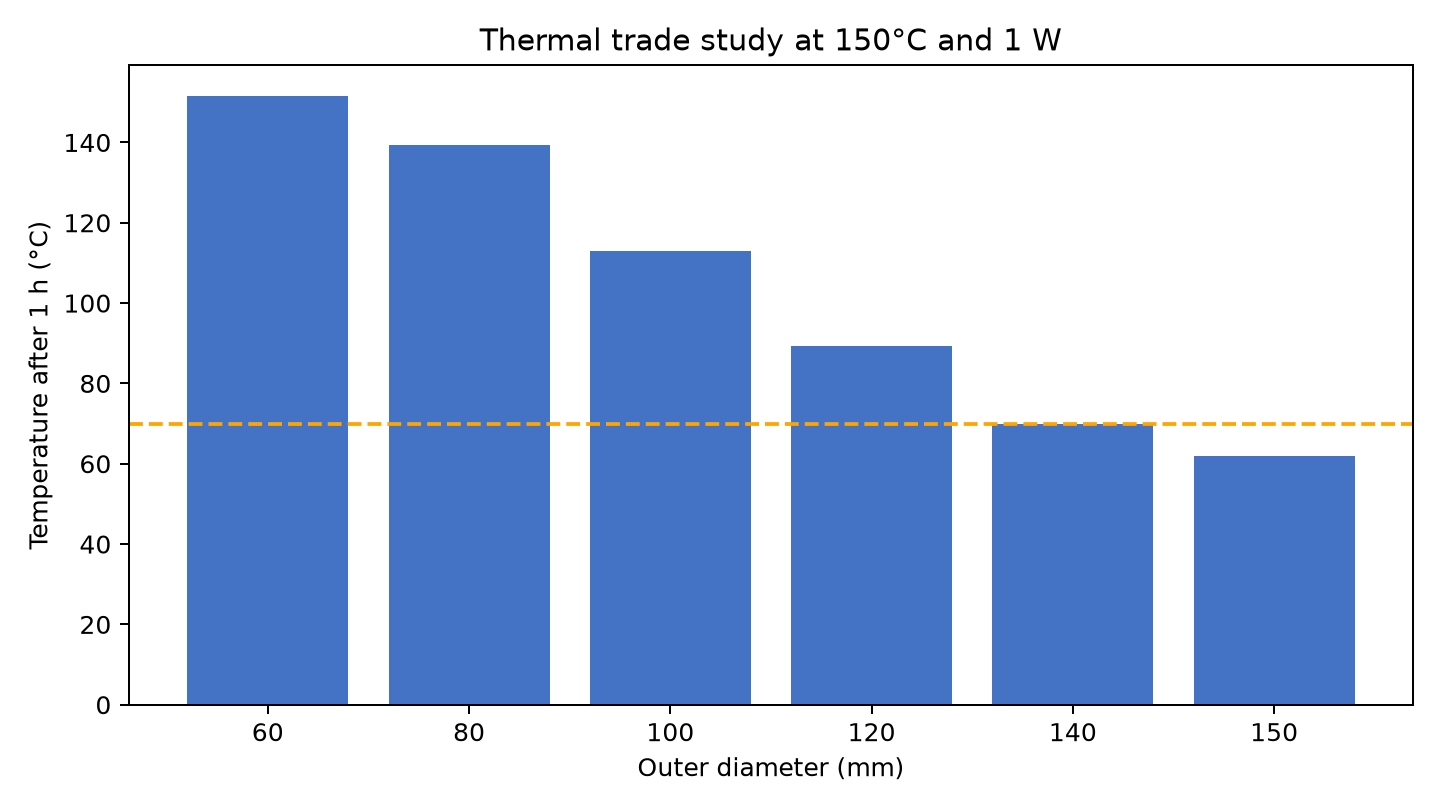
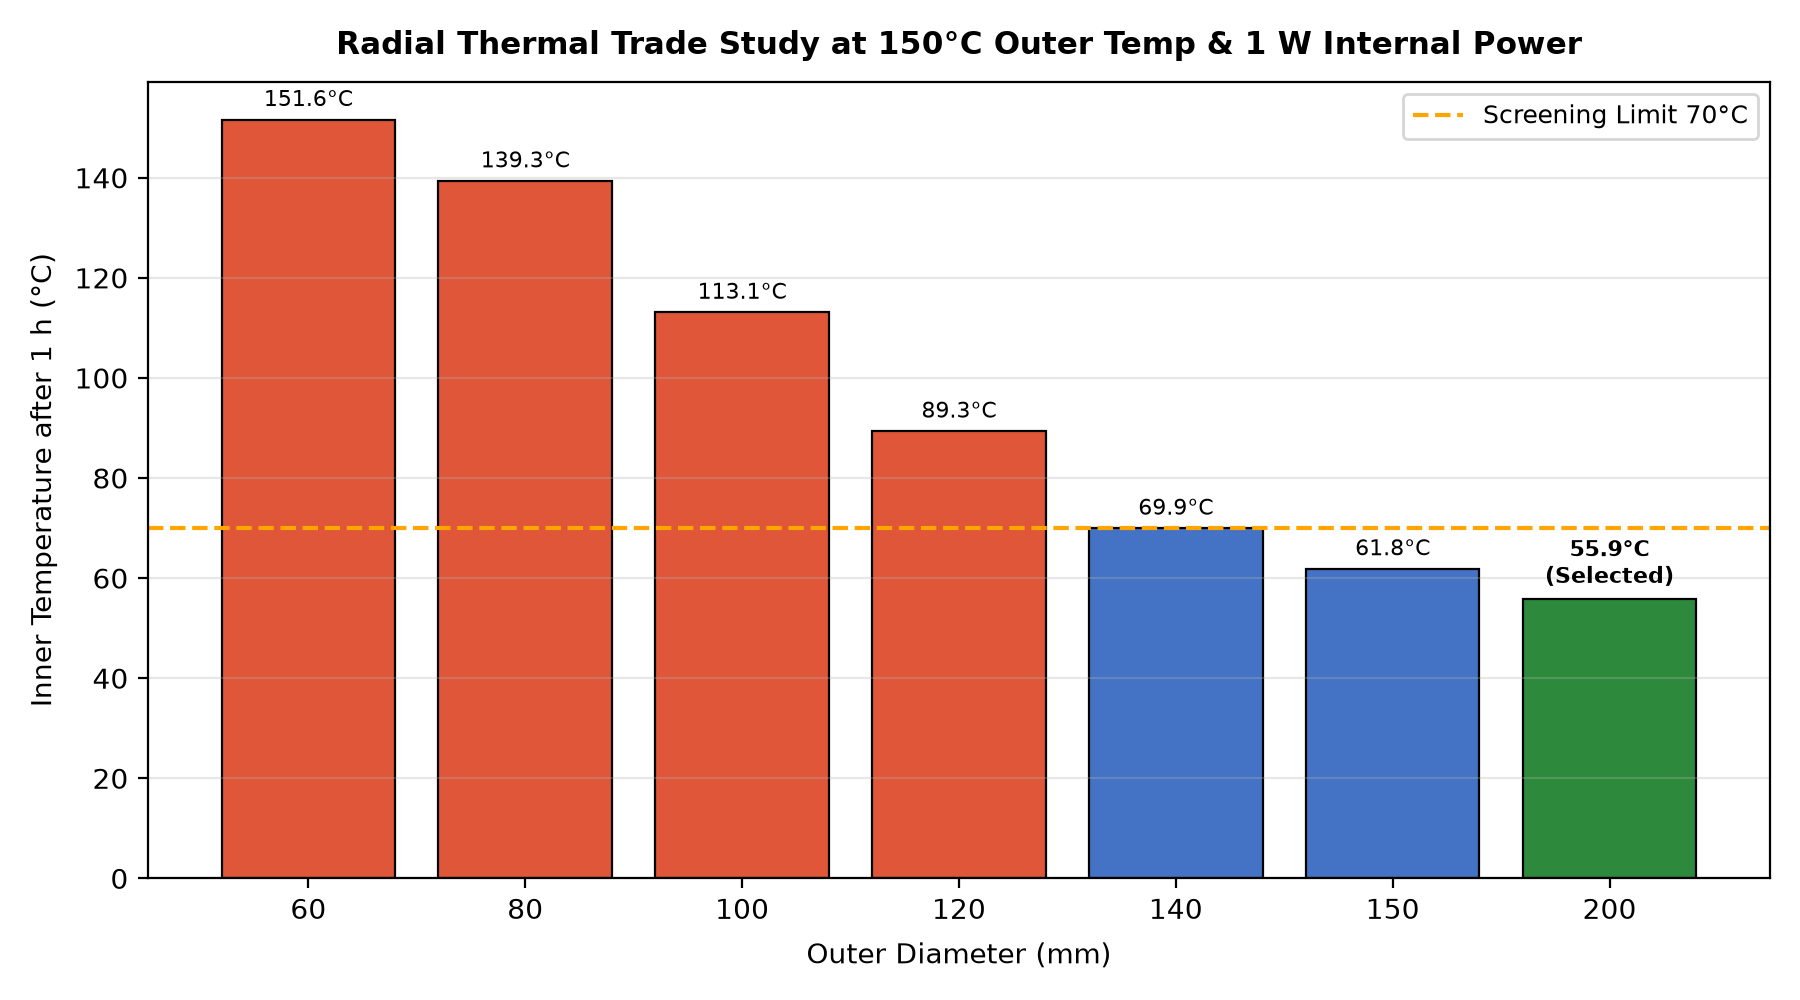
Enhance thermal analysis visualization and documentation; update plot aesthetics and add thermal trade-off figure

diff --git a/cosmo/biweekly5.py b/cosmo/biweekly5.py
@@ -653,7 +653,7 @@ def plot_thermal(rows: list[dict], selected: dict, selected_run: dict) -> None:
     fig.savefig(FIG_DIR / "thermal_history.png", dpi=180)
     plt.close(fig)
 
-    plotted_ods = {60, 80, 100, 120, 140, 145, 150}
+    plotted_ods = {60, 80, 100, 120, 140, 150, 200}
     one_hour = [
         r
         for r in rows
@@ -661,15 +661,39 @@ def plot_thermal(rows: list[dict], selected: dict, selected_run: dict) -> None:
         and r["power_W"] == 1.0
         and int(r["od_mm"]) in plotted_ods
     ]
-    fig, ax = plt.subplots(figsize=(8, 4.5))
-    ax.bar([str(int(r["od_mm"])) for r in one_hour], [r["inner_temperature_C"] for r in one_hour], color="#4472c4")
-    ax.axhline(70, color="orange", linestyle="--")
-    ax.set_xlabel("Outer diameter (mm)")
-    ax.set_ylabel("Temperature after 1 h (°C)")
-    ax.set_title("Thermal trade study at 150°C and 1 W")
+    one_hour.sort(key=lambda r: r["od_mm"])
+    fig, ax = plt.subplots(figsize=(9, 5), dpi=200)
+    colors = ["#e05638" if r["inner_temperature_C"] > 70 else "#2d8a3c" if r["od_mm"] == 200 else "#4472c4" for r in one_hour]
+    bars = ax.bar(
+        [f"{int(r['od_mm'])}" for r in one_hour],
+        [r["inner_temperature_C"] for r in one_hour],
+        color=colors,
+        edgecolor="black",
+        linewidth=0.8,
+    )
+    ax.axhline(70, color="orange", linestyle="--", linewidth=1.5, label="Screening Limit 70°C")
+    ax.set_xlabel("Outer Diameter (mm)", fontsize=10, labelpad=6)
+    ax.set_ylabel("Inner Temperature after 1 h (°C)", fontsize=10, labelpad=6)
+    ax.set_title("Radial Thermal Trade Study at 150°C Outer Temp & 1 W Internal Power", fontsize=11, fontweight="bold", pad=10)
+    ax.grid(axis="y", alpha=0.3)
+    for bar, r in zip(bars, one_hour):
+        height = bar.get_height()
+        label = f"{height:.1f}°C\n(Selected)" if r["od_mm"] == 200 else f"{height:.1f}°C"
+        ax.annotate(
+            label,
+            xy=(bar.get_x() + bar.get_width() / 2, height),
+            xytext=(0, 3),
+            textcoords="offset points",
+            ha="center",
+            va="bottom",
+            fontsize=8,
+            fontweight="bold" if r["od_mm"] == 200 else "normal",
+        )
+    ax.legend(loc="upper right", fontsize=9)
     fig.tight_layout()
-    fig.savefig(FIG_DIR / "thermal_tradeoff.png", dpi=180)
+    fig.savefig(FIG_DIR / "thermal_tradeoff.png", dpi=200)
     plt.close(fig)
+
 
 
 def run_calculix_thermal(selected: dict) -> dict:

diff --git a/results/biweekly-5/biweekly-5.md b/results/biweekly-5/biweekly-5.md
@@ -92,6 +92,8 @@ Simulasi termal 3D casing tertutup memperhitungkan barrel, endcap Inconel depan/
 
 Perbedaan model radial dan model 3D tertutup berasal dari panas yang juga masuk melalui endcap. Menambah diameter dan aerogel radial memperlambat panas dari sisi barrel, tetapi tidak memperpanjang jalur panas dari depan atau belakang. Karena itu, desain ini juga memindahkan elektronik dan menambah insulasi aksial.
 
+![Studi trade-off termal radial](figures/thermal_tradeoff.png)
+
 **Thermal resistance** dalam K/W menyatakan kenaikan beda temperatur yang dibutuhkan untuk mengalirkan satu watt panas; angka lebih besar berarti insulasi lebih baik. Perkiraan resistansi aksial depan adalah 454.4 K/W dan belakang 645.2 K/W. **Axial heat leak** adalah panas yang merambat dari endcap menuju elektronik melalui jalur tersebut; perkiraan awalnya 0.28 W dari depan dan 0.19 W dari belakang.
 
 Angka **0,0007%** pada model lama berarti hasil mesh medium dan fine hanya berbeda sekitar tujuh bagian per sejuta. Itu menunjukkan hasil mesh termal lama sudah stabil, tetapi tidak berarti temperaturnya memenuhi batas. Nilai desain baru yang dipakai untuk status adalah 1.1799%.
